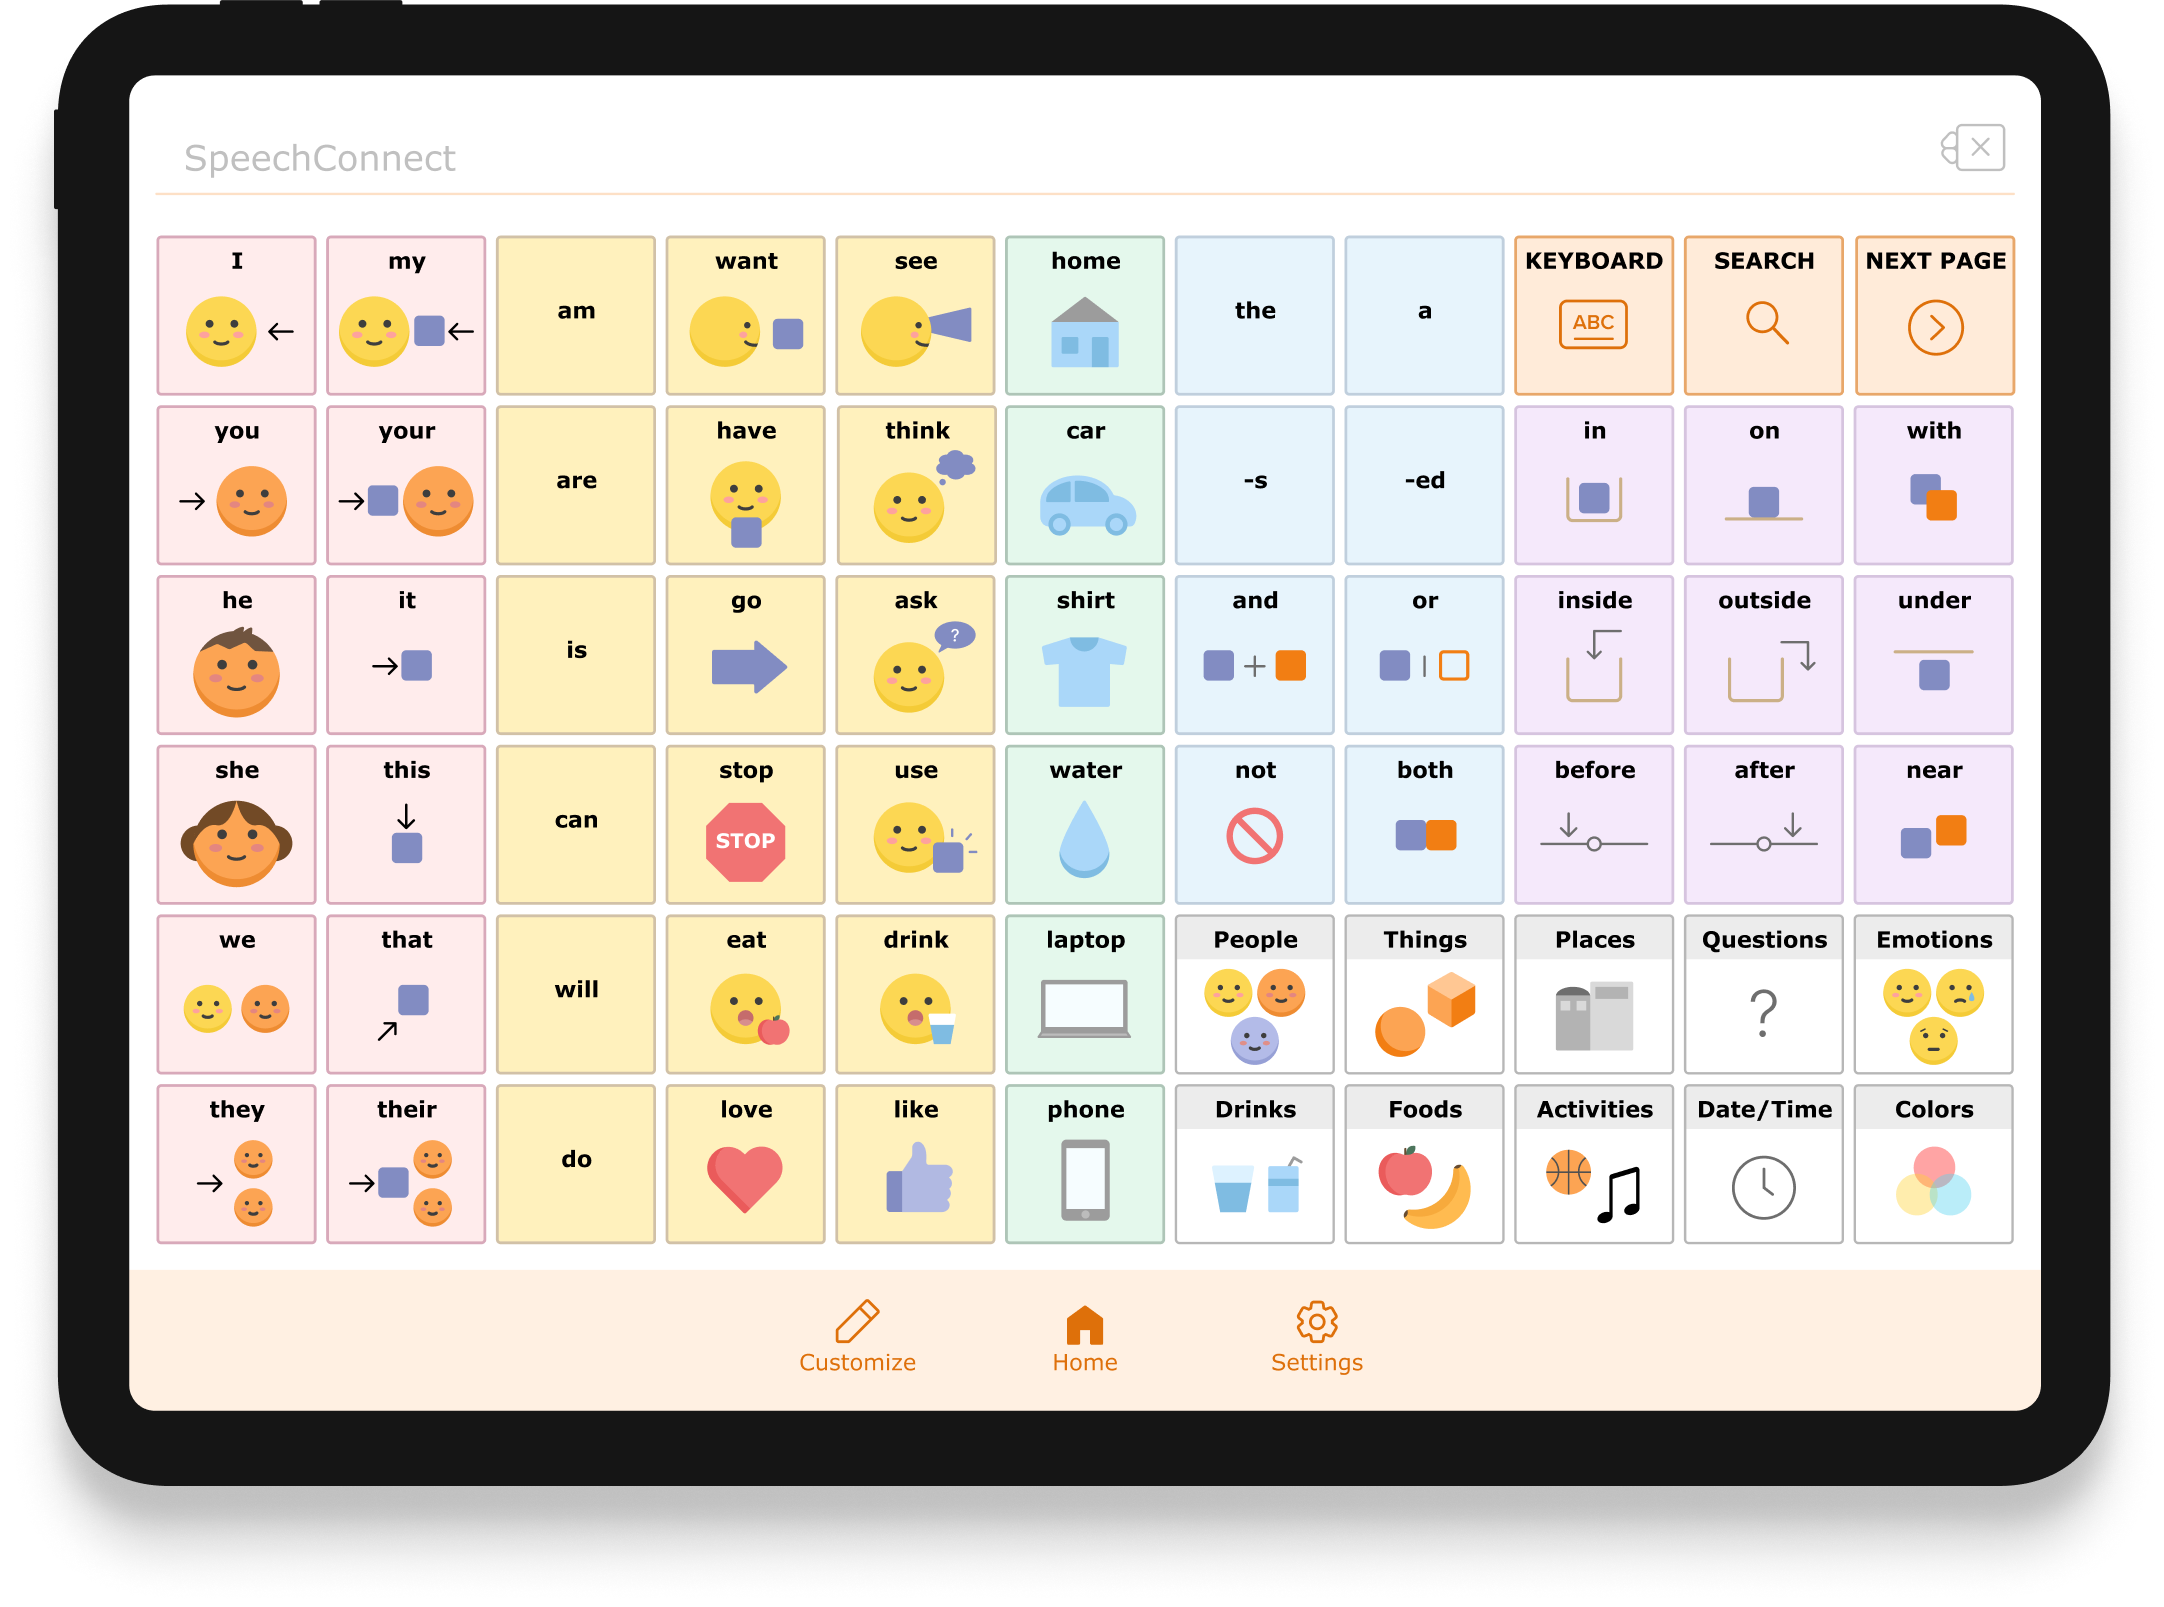
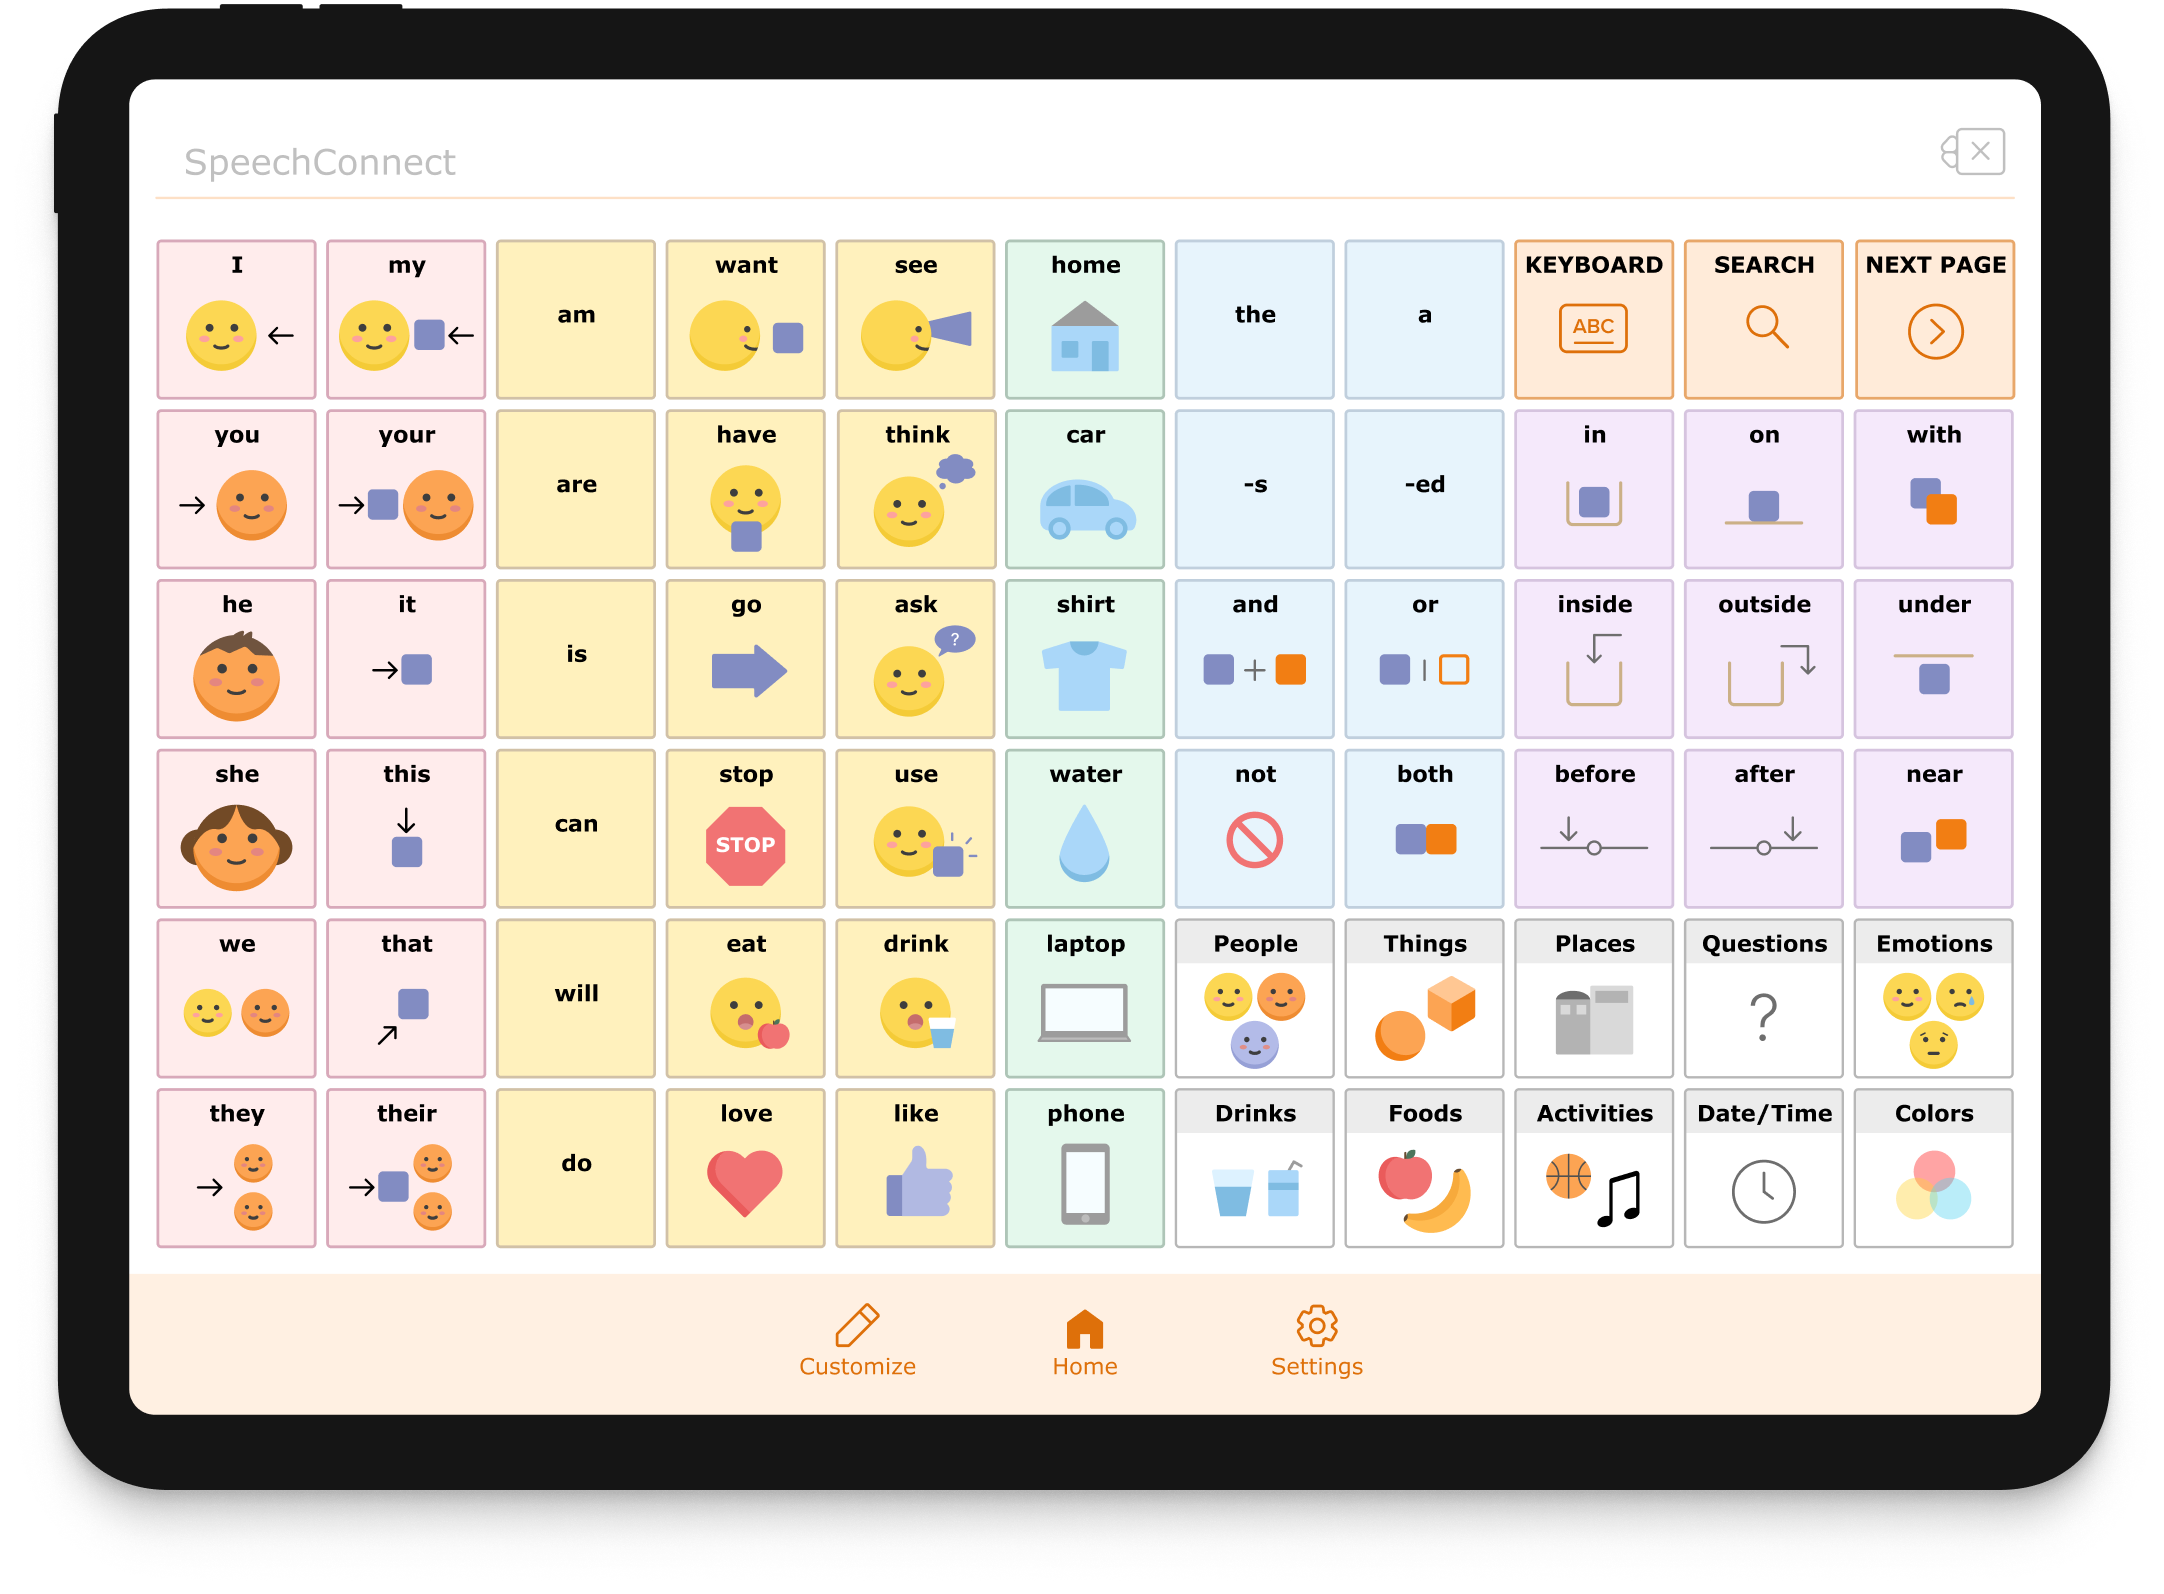
chapter finalized + device mockup updates

diff --git a/site/src/components/Chapter.js b/site/src/components/Chapter.js
@@ -13,7 +13,7 @@ import chapterproto2 from '../assets/chapter-proto-2.png';
 import chapterproto3 from '../assets/chapter-proto-3.png';
 // import meetdevicemobile from '../assets/meet-device-mobile.png';
 // import meetdevicedesk from '../assets/meet-device-desk.png';
-import meetdevicemock from '../assets/meet-device-mock.png';
+import chapterdevicemock from '../assets/chapter-device-mock.png';
 import NavBar from './NavBar';
 import Footer from './Footer';
 
@@ -21,7 +21,7 @@ function Chapter({ currPage, setCurrPage }) {
   useEffect(() => {
     setCurrPage('');
     document.title = 'Chapter | Sylvia Zhao';
-    // window.scrollTo(0, 0);
+    window.scrollTo(0, 0);
   }, []);
 
   return (
@@ -352,7 +352,7 @@ function Chapter({ currPage, setCurrPage }) {
           </div>
         </div>
       </div>
-      <div className="project-text">USER FLOW DIAGRAM SECTION??</div>
+      {/* <div className="project-text">/////////////TO DO: USER FLOW DIAGRAM SECTION??</div> */}
       <div className="project-wrap">
         <div className="subsection-header">WIREFRAMES: ITERATION 1</div>
         <div className="project-text">
@@ -403,9 +403,9 @@ function Chapter({ currPage, setCurrPage }) {
             </li>
           </ul>
         </div>
-        <div className="project-text">
-          TO DO: ADD USER FLOW DIAGRAM
-        </div>
+        {/* <div className="project-text">
+          //////////TO DO: ADD USER FLOW DIAGRAM
+        </div> */}
       </div>
       <div className="mockup">
         <img className="mockup-img" src={chapterwire1} alt="chapter-wire-1" />
@@ -462,7 +462,7 @@ function Chapter({ currPage, setCurrPage }) {
             <li>
               <div className="list-text">
                 <span style={{ 'font-weight': '600' }}>Sans serif & serif font combination </span>
-                to create a sophisticated but still simple feeling interface.
+                to create a more sophisticated but still simple feeling interface.
                 Headers were in Lora (serif) while body text, buttons, and smaller text were in
                 Noto Sans for readability.
               </div>
@@ -575,22 +575,21 @@ function Chapter({ currPage, setCurrPage }) {
       <div className="project-wrap">
         <div className="subsection-header-sec">USER TESTING: ROUND 2</div>
         <div className="project-text">
-          Continuing with the same users from the first round of testing, I collected feedback on
-          the second prototype. With this second round, comments mostly focused on how information
-          could be better indicated visually:
+          Again with the people from the first round of user testing, I gathered feedback on the
+          second prototype, particularly the changes to the discussion section.
+          Comments were largely centered around the private group discussions page:
           <ul>
             <li>
               <div className="list-text">
                 <span style={{ 'font-weight': '600' }}>&ldquo;Threads&rdquo; terminology </span>
-                limits the information a user has at their immediate disposal when inputting their
-                own information
+                felt too &ldquo;formal&rdquo; to some people, felt more appropriate for the public
+                community discussions.
               </div>
             </li>
             <li>
               <div className="list-text">
-                <span style={{ 'font-weight': '600' }}>Unread comments & new updates </span>
-                for adding/editing availability improves previous flow and feels
-                less tedious
+                <span style={{ 'font-weight': '600' }}>Unread replies/new updates </span>
+                indicator missing from discussions page.
               </div>
             </li>
           </ul>
@@ -599,23 +598,21 @@ function Chapter({ currPage, setCurrPage }) {
       <div className="project-wrap">
         <div className="subsection-header-sec">PROTOTYPE: ITERATION 3</div>
         <div className="project-text">
-          The final solution mainly addresses the confusions and concerns around visual
-          representation of information with the introduction of a secondary grid view calendar:
+          The final prototype includes updates addressing the comments from the second
+          round of user testing. These were the updates made to the private group discussion
+          page:
           <ul>
             <li>
               <div className="list-text">
                 <span style={{ 'font-weight': '600' }}>&ldquo;Threads&rdquo; changed to &ldquo;Topics&rdquo; </span>
-                to supplement the original calendar view; the grid shows individual days
-                while the original layout still gives an overview of all dates that a
-                user can select from
+                to address the issue of the private group discussions feeling too much
+                like a public discussion forum.
               </div>
             </li>
             <li>
               <div className="list-text">
                 <span style={{ 'font-weight': '600' }}>Indicator for new updates </span>
-                in the grid view to solve for the issue of not having the ability to compare
-                personal and group availability in the previous prototype; a key indicates the
-                two types of availability shown by the columns
+                added to each discussion topic.
               </div>
             </li>
           </ul>
@@ -632,7 +629,7 @@ function Chapter({ currPage, setCurrPage }) {
           <ul>
             <li>
               <div className="list-text">
-                <a className="proto-link" href="https://www.figma.com/proto/C9TwlLjWPRFaHFCLNZ32v2/Meetup-Prototype-(Desktop)?node-id=3%3A394&scaling=scale-down&page-id=0%3A1&starting-point-node-id=3%3A21">
+                <a className="proto-link" target="_blank" rel="noopener noreferrer" href="https://www.figma.com/proto/GhMUbVJmDgFJR9GvVNHzAh/Book-Club-Case-Study?node-id=118%3A806&scaling=scale-down&page-id=117%3A804&starting-point-node-id=118%3A806">
                   Chapter Prototype
                 </a>
               </div>
@@ -640,8 +637,7 @@ function Chapter({ currPage, setCurrPage }) {
           </ul>
         </div>
         <div className="proto-flex">
-          <img className="device-mock" src={meetdevicemock} alt="meet-device-mock" />
-          {/* <img className="device-mock-desk" src={meetdevicedesk} alt="meet-device-desk" /> */}
+          <img className="device-mock" src={chapterdevicemock} alt="chapter-device-mock" />
         </div>
         <div className="section-header" id="reflections">Reflections</div>
         <div className="project-text">

diff --git a/site/src/components/Meetup.js b/site/src/components/Meetup.js
@@ -726,14 +726,14 @@ function Meetup({ currPage, setCurrPage }) {
           <ul>
             <li>
               <div className="list-text">
-                <a className="proto-link" href="https://www.figma.com/proto/AHxq5BvD3YoUd5bdFdI9OC/Meetup-Prototype-(Mobile)?node-id=2%3A98&scaling=scale-down&page-id=0%3A1&starting-point-node-id=2%3A28">
+                <a className="proto-link" target="_blank" rel="noopener noreferrer" href="https://www.figma.com/proto/AHxq5BvD3YoUd5bdFdI9OC/Meetup-Prototype-(Mobile)?node-id=2%3A98&scaling=scale-down&page-id=0%3A1&starting-point-node-id=2%3A28">
                   Mobile Solution Prototype
                 </a>
               </div>
             </li>
             <li>
               <div className="list-text">
-                <a className="proto-link" href="https://www.figma.com/proto/C9TwlLjWPRFaHFCLNZ32v2/Meetup-Prototype-(Desktop)?node-id=3%3A394&scaling=scale-down&page-id=0%3A1&starting-point-node-id=3%3A21">
+                <a className="proto-link" target="_blank" rel="noopener noreferrer" href="https://www.figma.com/proto/C9TwlLjWPRFaHFCLNZ32v2/Meetup-Prototype-(Desktop)?node-id=3%3A394&scaling=scale-down&page-id=0%3A1&starting-point-node-id=3%3A21">
                   Desktop Solution Prototype
                 </a>
               </div>

diff --git a/site/src/components/SpeechConnect.js b/site/src/components/SpeechConnect.js
@@ -152,8 +152,8 @@ function SpeechConnect({ currPage, setCurrPage }) {
           purchasing a new device.
         </div>
         {/* <img className="project-img" src={aacexample} alt="aac-example" /> */}
-        <div className="mockup">
-          <img className="mockup-img" src={aacexample} alt="speech-apps" />
+        <div className="mockup-small">
+          <img className="mockup-img-small" src={aacexample} alt="speech-apps" />
         </div>
         <div className="section-header" id="research"> Research</div>
         <div className="cap-card">
@@ -776,7 +776,7 @@ function SpeechConnect({ currPage, setCurrPage }) {
           <ul>
             <li>
               <div className="list-text">
-                <a className="proto-link" href="https://www.figma.com/proto/zNMKIm85MZyPw7ucAzFpLH/AAC-Case-Study?node-id=138%3A21244&scaling=scale-down&page-id=138%3A21027&starting-point-node-id=138%3A21244">
+                <a className="proto-link" target="_blank" rel="noopener noreferrer" href="https://www.figma.com/proto/zNMKIm85MZyPw7ucAzFpLH/AAC-Case-Study?node-id=138%3A21244&scaling=scale-down&page-id=138%3A21027&starting-point-node-id=138%3A21244">
                   SpeechConnect Prototype
                 </a>
               </div>

diff --git a/site/src/assets/index.css b/site/src/assets/index.css
@@ -1168,8 +1168,23 @@ ul {
   margin: auto;
 }
 
+
+.mockup-small {
+  background-color: #F4FAFF;
+  display: flex;
+  flex-direction: column;
+  padding: 4rem 4rem 0 4rem;
+  margin: auto;
+}
+
 .mockup-img {
   width: 65%;
+  margin: auto;
+  align-self: center;
+}
+
+.mockup-img-small {
+  width: 100%;
   margin: auto;
   align-self: center;
 }
